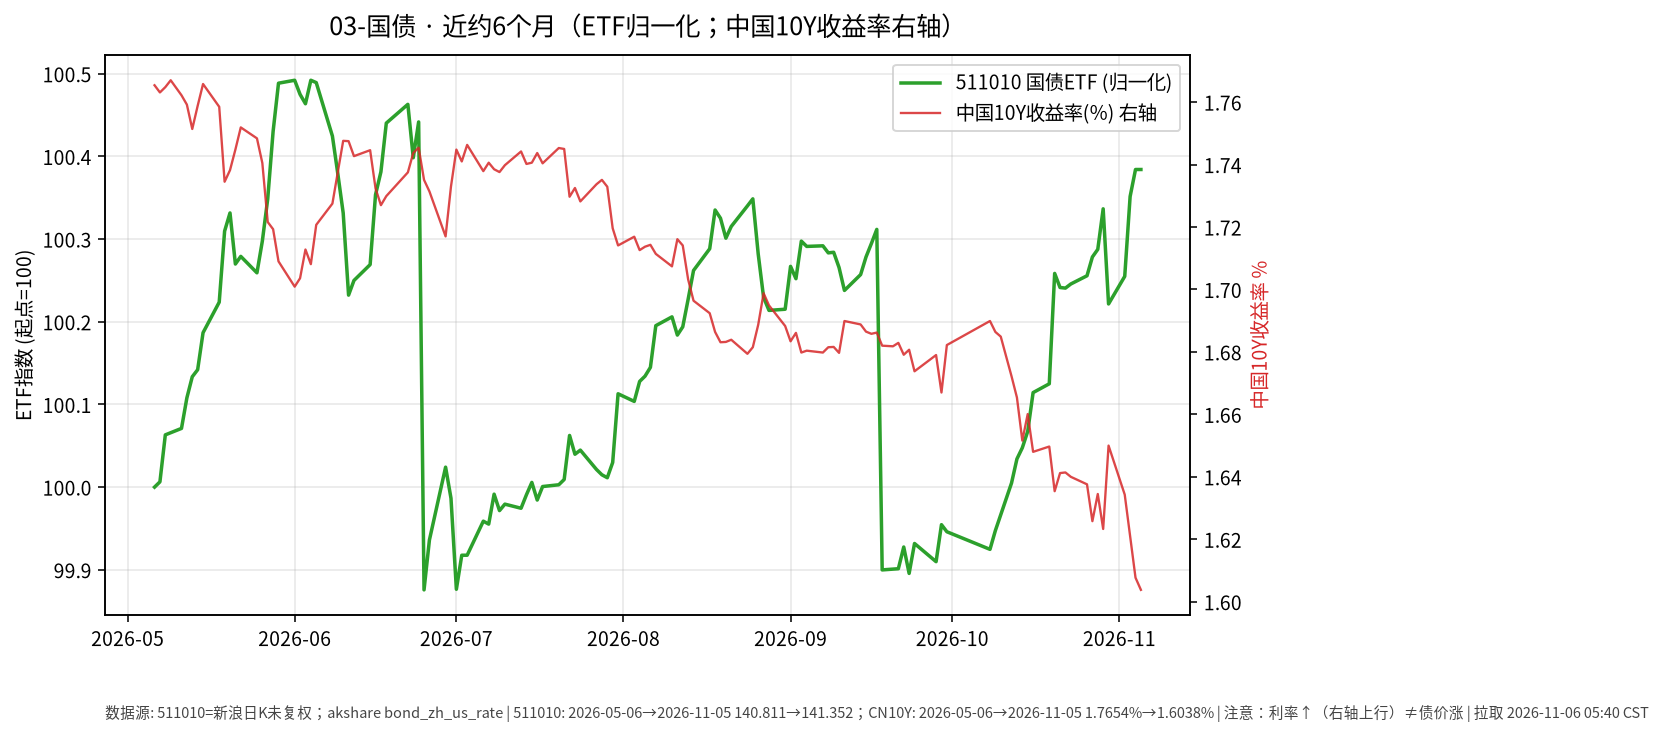
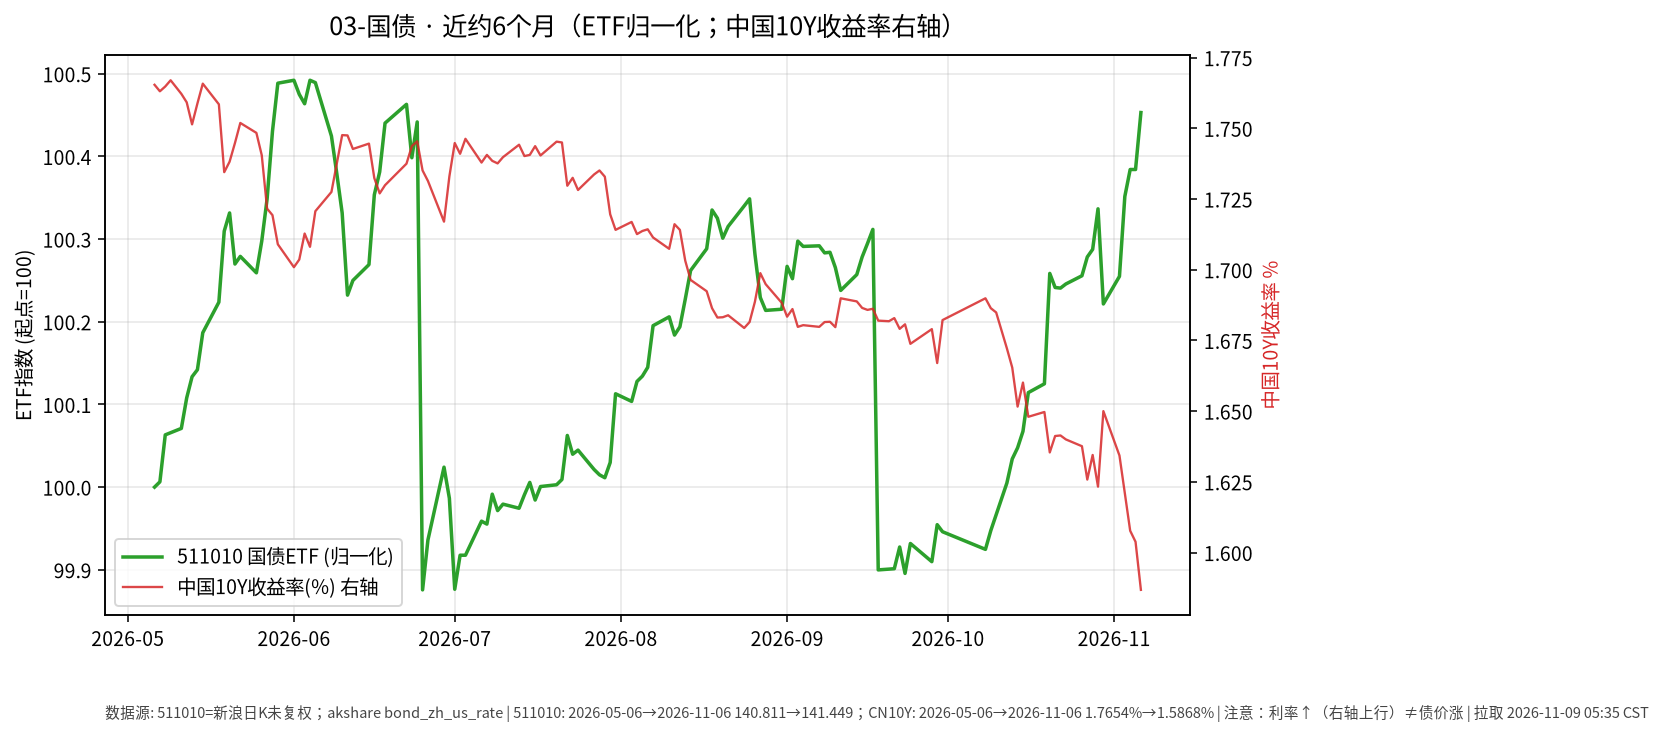
docs: 五门类投资日报 2026-11-09

diff --git a/01-黄金/日报/2026-11-09.md b/01-黄金/日报/2026-11-09.md
@@ -1,0 +1,37 @@
+# 黄金 · 日报 2026-11-09
+
+## 市场状态
+- **报告日**：2026-11-09（周一，Asia/Shanghai 盘前例程）
+- **数据截止交易日**：A 股/沪金均为 **2026-11-06（周五）**；GLD 为美股 **2026-11-06** 收盘（美东上周五，对本报告而言属「隔夜已收」）。周末休市，今日 A 股尚未开盘；本页数字不含周一盘中。
+- GLD 收盘 **372.52**，较前一交易日（2026-11-05 的 375.49）**-0.79%**（akshare 日 K 已含 **2026-11-06**；新浪美股行情 `gb_gld` 同步报 372.52，可交叉核对；yfinance/Yahoo 限流，本次无需补点）。
+- 沪金 AU9999：**2026-11-06** 收盘 **868.57** 元/克（**-1.76%**）；黄金 ETF 518880 收 **8.253**（**-1.98%**）。
+
+## 关键数据
+| 标的 | 最近收盘日 | 收盘 | 日涨跌 | 近约6个月（归一起点日） | 区间涨跌 |
+|------|------------|------|--------|-------------------------|----------|
+| GLD | 2026-11-06 | 372.52 | -0.79% | 2026-05-01→2026-11-06 | -11.97% |
+| 518880 黄金ETF | 2026-11-06 | 8.253 | -1.98% | 2026-05-06→2026-11-06 | -15.71% |
+| AU9999（沪金） | 2026-11-06 | 868.57 | -1.76% | 2026-05-06→2026-11-06 | -15.42% |
+
+![近6个月走势](charts/01-黄金-6m.png)
+
+## 简要解读
+- 美元计价黄金 ETF（GLD）在 **2026-11-06** 较前一交易日约 **-0.79%**；境内 518880 约 **-1.98%**，沪金 AU9999 约 **-1.76%**。近约半年归一后约 **-11.97%～-15.71%**（自 5 月高位回撤后的区间路径）。
+- 价格变动同时受美元、实际利率与风险情绪影响；本页只描述已发生报价，不推断下一步方向。
+
+## 关注点与风险
+- 汇率：境内投资者若以人民币计量，还需叠加美元兑人民币变动，账面涨跌可能与 GLD 美元涨跌不一致。
+- 波动：黄金单日可达数个百分点；ETF 净值/溢价、交易时段与现货不完全同步。
+- 数据完整性：GLD 历史至 11-06 来自 akshare `stock_us_daily`（新浪 `gb_gld` 报 372.52，与收盘一致）；yfinance/Yahoo 限流。518880 新浪日 K；SGE Au99.99 完整。
+
+## 来源与时间
+- GLD：akshare `stock_us_daily`（至 2026-11-06）；新浪 hq `gb_gld` 交叉核对 372.52；yfinance/Yahoo 限流
+- 518880：新浪日 K；AU9999：上海金交所 Dailyhq
+- 图表：Python matplotlib，收盘价归一到起点=100（图窗自 2026-05-01 起）；拉取约 2026-11-09 05:35:44 CST
+
+## 今日一点
+# 今日一点 · Day 11/100 · 《单位净值、估值日、T+N》
+
+**结论：** 看债基或货基，单位净值是「每一份今天值多少」；按哪天成交、钱何时能用，取决于估值日和 T+N，屏幕数字不是落袋现金。
+
+**机制：** 基金公司在每个交易日收盘后算出当天单位净值，这一天就是估值日；你在规定时点前申购或赎回，才锁定哪天净值。货基常见当日或次日可用，债基赎回多为 T+1 或 T+2 到账；ETF 场内买卖即时成交，和场外申赎不是同一条路径。债底仓票息清晰，要先分清净值更新日和资金可用日——应急金不该压在尚未到账的份额上；以后若划拨股票卫星，A 股卖出也有 T+1 交收，节奏要和动用年限对上。今天只讲结算节奏，不定买卖。

diff --git a/03-国债/日报/2026-11-09.md b/03-国债/日报/2026-11-09.md
@@ -1,0 +1,36 @@
+# 国债 · 日报 2026-11-09
+
+## 市场状态
+- **报告日**：2026-11-09（周一盘前）；**数据截止交易日**：**2026-11-06**。周末休市，今日尚未开盘；本页数字不含周一盘中。
+- 国债 ETF 511010 收 **141.449**，日涨跌 **+0.069%**。
+- 中债国债收益率曲线 **10 年期** 2026-11-06 报 **1.5868%**，较上一可得日（2026-11-05 的 1.6038%）约 **-1.70 BP**（akshare `bond_zh_us_rate`）。
+- **提醒**：利率上行（曲线上移）通常对应既有国债价格承压；图中 ETF 净值涨 ≠ 收益率涨。**利率↑线↑≠债价涨**。
+
+## 关键数据
+| 标的 | 收盘日 | 收盘/收益率 | 日变化 | 约6个月 | 区间 |
+|------|--------|-------------|--------|---------|------|
+| 511010 | 2026-11-06 | 141.449 | +0.069% | 2026-05-06→2026-11-06 | +0.45% |
+| 中债10Y国债收益率 | 2026-11-06 | 1.5868% | 约-1.70 BP | 2026-05-06→2026-11-06 | 约 -17.86 BP（akshare 序列） |
+
+![近6个月走势](charts/03-国债-6m.png)
+
+## 简要解读
+- 511010 近半年归一涨跌约 **+0.45%**，路径相对平缓；2026-11-06 日涨跌 +0.069%，同时 10Y 收益率较前一可得日约 -1.70 BP（利率下行通常对存量债价偏友好，单日仍可能受供需/折溢价影响）。
+- 久期越长，对收益率变化越敏感；本页只记录 ETF 收盘与曲线点位。图中右轴叠加中国10Y收益率日序。
+
+## 关注点与风险
+- 利率风险：收益率上行 → 债券市价下行。
+- 通胀预期、货币政策与供需（供给放量等）都会改变曲线形态。
+- 收益率序列来自公开曲线汇总，与 ETF 交易价时间戳不完全同步。
+
+## 来源与时间
+- 511010：新浪日 K；截止 2026-11-06
+- 收益率：akshare `bond_zh_us_rate`（2026-11-06，10Y=1.5868%）
+- 图表：matplotlib，ETF 收盘归一=100，中国10Y 收益率右轴；图注已写「利率↑线↑≠债价涨」；拉取约 2026-11-09 05:35:44 CST
+
+## 今日一点
+# 今日一点 · Day 11/100 · 《单位净值、估值日、T+N》
+
+**结论：** 看债基或货基，单位净值是「每一份今天值多少」；按哪天成交、钱何时能用，取决于估值日和 T+N，屏幕数字不是落袋现金。
+
+**机制：** 基金公司在每个交易日收盘后算出当天单位净值，这一天就是估值日；你在规定时点前申购或赎回，才锁定哪天净值。货基常见当日或次日可用，债基赎回多为 T+1 或 T+2 到账；ETF 场内买卖即时成交，和场外申赎不是同一条路径。债底仓票息清晰，要先分清净值更新日和资金可用日——应急金不该压在尚未到账的份额上；以后若划拨股票卫星，A 股卖出也有 T+1 交收，节奏要和动用年限对上。今天只讲结算节奏，不定买卖。

diff --git a/05-高股息/日报/2026-11-09.md b/05-高股息/日报/2026-11-09.md
@@ -1,0 +1,37 @@
+# 高股息 · 日报 2026-11-09
+
+## 市场状态
+- **报告日**：2026-11-09（周一盘前）；**数据截止交易日**：**2026-11-06**。周末休市，今日尚未开盘；本页数字不含周一盘中。
+- 红利 ETF 510880 收 **3.371**（**+0.69%**）。
+- 招商银行 600036 收 **42.88**（**+0.80%**）；长江电力 600900 收 **29.91**（**+2.15%**）。
+- 510880、招行与长电同日上行；分红与价格涨跌是两回事（股息率随股价变动）。
+- **价格口径**：本页序列为交易所日 K **未复权**收盘（新浪）。
+
+## 关键数据
+| 标的 | 收盘日 | 收盘 | 日涨跌 | 约6个月 | 区间涨跌 |
+|------|--------|------|--------|---------|----------|
+| 510880 红利ETF | 2026-11-06 | 3.371 | +0.69% | 2026-05-06→2026-11-06 | +0.90% |
+| 600036 招商银行 | 2026-11-06 | 42.88 | +0.80% | 2026-05-06→2026-11-06 | +12.84% |
+| 600900 长江电力 | 2026-11-06 | 29.91 | +2.15% | 2026-05-06→2026-11-06 | +9.96% |
+
+![近6个月走势](charts/05-高股息-6m.png)
+
+## 简要解读
+- 近半年归一（未复权）：510880 约 **+0.90%**，招行约 **+12.84%**，长电约 **+9.96%**（个股路径强于宽基红利 ETF，不代表未来）。
+- 2026-11-06：510880 **+0.69%**、招行 **+0.80%**、长电 **+2.15%**，属已发生的价格事实。
+
+## 关注点与风险
+- 银行与公用事业对利率、监管、来水/电价等基本面敏感；高股息不保证本金稳定。
+- 510880 成分与权重定期调整；个股与 ETF 走势可显著偏离。
+- 未复权序列在除权除息日会出现跳空，与前复权路径不一致属正常。
+
+## 来源与时间
+- 510880 / 600036 / 600900：新浪 CN_MarketData K 线（未复权）
+- 截止 2026-11-06；图表 matplotlib，起点=100；图注写明未复权；拉取约 2026-11-09 05:35:44 CST
+
+## 今日一点
+# 今日一点 · Day 11/100 · 《单位净值、估值日、T+N》
+
+**结论：** 看债基或货基，单位净值是「每一份今天值多少」；按哪天成交、钱何时能用，取决于估值日和 T+N，屏幕数字不是落袋现金。
+
+**机制：** 基金公司在每个交易日收盘后算出当天单位净值，这一天就是估值日；你在规定时点前申购或赎回，才锁定哪天净值。货基常见当日或次日可用，债基赎回多为 T+1 或 T+2 到账；ETF 场内买卖即时成交，和场外申赎不是同一条路径。债底仓票息清晰，要先分清净值更新日和资金可用日——应急金不该压在尚未到账的份额上；以后若划拨股票卫星，A 股卖出也有 T+1 交收，节奏要和动用年限对上。今天只讲结算节奏，不定买卖。

diff --git a/02-中短债/日报/2026-11-09.md b/02-中短债/日报/2026-11-09.md
@@ -1,0 +1,35 @@
+# 中短债 · 日报 2026-11-09
+
+## 市场状态
+- **报告日**：2026-11-09（周一盘前）；**A 股数据截止交易日**：**2026-11-06**（周五）。周末休市，今日尚未开盘；本页数字不含周一盘中。
+- 短融 ETF 511360 收 **114.152**（日涨跌 **+0.025%**）。
+- 159649（国开债 ETF 华安）收 **110.923**（日涨跌 **+0.023%**）。
+- 短端品种单日变动极小；仅作路径对照，非交易建议。
+
+## 关键数据
+| 标的 | 收盘日 | 收盘 | 日涨跌 | 约6个月区间 | 区间涨跌 |
+|------|--------|------|--------|-------------|----------|
+| 511360 短融ETF海富通 | 2026-11-06 | 114.152 | +0.025% | 2026-05-06→2026-11-06 | +0.66% |
+| 159649 国开债ETF华安 | 2026-11-06 | 110.923 | +0.023% | 2026-05-06→2026-11-06 | +1.14% |
+
+![近6个月走势](charts/02-中短债-6m.png)
+
+## 简要解读
+- 两条曲线近半年均呈缓慢抬升（归一后约 **+0.66%** / **+1.14%**），单日波动接近于零，符合短久期利率品种特征。
+- 159649 跟踪国开债，久期与信用暴露通常高于纯短融；与 511360 并排只为对照路径，不暗示优劣。
+
+## 关注点与风险
+- 利率上行时净值可能回撤（即使票息仍为正）。
+- ETF 折溢价、流动性与跟踪误差；节假日后跳空可能出现。
+- 杠杆与加久期会放大波动——本报告不讨论、不鼓励此类操作。
+
+## 来源与时间
+- 新浪 CN_MarketData 日 K，截止 2026-11-06
+- 图表：matplotlib，起点归一=100；拉取约 2026-11-09 05:35:44 CST
+
+## 今日一点
+# 今日一点 · Day 11/100 · 《单位净值、估值日、T+N》
+
+**结论：** 看债基或货基，单位净值是「每一份今天值多少」；按哪天成交、钱何时能用，取决于估值日和 T+N，屏幕数字不是落袋现金。
+
+**机制：** 基金公司在每个交易日收盘后算出当天单位净值，这一天就是估值日；你在规定时点前申购或赎回，才锁定哪天净值。货基常见当日或次日可用，债基赎回多为 T+1 或 T+2 到账；ETF 场内买卖即时成交，和场外申赎不是同一条路径。债底仓票息清晰，要先分清净值更新日和资金可用日——应急金不该压在尚未到账的份额上；以后若划拨股票卫星，A 股卖出也有 T+1 交收，节奏要和动用年限对上。今天只讲结算节奏，不定买卖。

diff --git a/04-纯债/日报/2026-11-09.md b/04-纯债/日报/2026-11-09.md
@@ -1,0 +1,35 @@
+# 纯债 · 日报 2026-11-09
+
+## 市场状态
+- **报告日**：2026-11-09（周一盘前）；**数据截止交易日**：**2026-11-06**。周末休市，今日尚未开盘；本页数字不含周一盘中。
+- 城投债 ETF 511220 收 **10.450**（**+0.086%**）。
+- 政金债/债券 ETF 511520 收 **120.230**（**+0.170%**）。
+- 两品种单日变动较小；近半年仍呈缓慢抬升。
+
+## 关键数据
+| 标的 | 收盘日 | 收盘 | 日涨跌 | 约6个月区间 | 区间涨跌 |
+|------|--------|------|--------|-------------|----------|
+| 511220 城投债ETF海富通 | 2026-11-06 | 10.450 | +0.086% | 2026-05-06→2026-11-06 | +1.12% |
+| 511520 政金债ETF富国 | 2026-11-06 | 120.230 | +0.170% | 2026-05-06→2026-11-06 | +2.93% |
+
+![近6个月走势](charts/04-纯债-6m.png)
+
+## 简要解读
+- 近半年归一：511220 约 **+1.12%**，511520 约 **+2.93%**；2026-11-06 两品种分别约 +0.086% / +0.170%，属已发生价格事实。
+- 城投债含信用利差暴露，政金债更偏利率；并排对照路径，不评价孰优。
+
+## 关注点与风险
+- 信用利差扩张时，城投/信用类净值回撤可能大于利率债。
+- 利率上行同样压制久期更长的品种。
+- ETF 折溢价与跟踪误差；本报告不讨论杠杆与下沉信用。
+
+## 来源与时间
+- 新浪 CN_MarketData 日 K，截止 2026-11-06
+- 图表：matplotlib，起点归一=100；拉取约 2026-11-09 05:35:44 CST
+
+## 今日一点
+# 今日一点 · Day 11/100 · 《单位净值、估值日、T+N》
+
+**结论：** 看债基或货基，单位净值是「每一份今天值多少」；按哪天成交、钱何时能用，取决于估值日和 T+N，屏幕数字不是落袋现金。
+
+**机制：** 基金公司在每个交易日收盘后算出当天单位净值，这一天就是估值日；你在规定时点前申购或赎回，才锁定哪天净值。货基常见当日或次日可用，债基赎回多为 T+1 或 T+2 到账；ETF 场内买卖即时成交，和场外申赎不是同一条路径。债底仓票息清晰，要先分清净值更新日和资金可用日——应急金不该压在尚未到账的份额上；以后若划拨股票卫星，A 股卖出也有 T+1 交收，节奏要和动用年限对上。今天只讲结算节奏，不定买卖。

diff --git a/notes/invest-knowledge-100/今日一点/2026-11-09-day11.md b/notes/invest-knowledge-100/今日一点/2026-11-09-day11.md
@@ -1,0 +1,5 @@
+# 今日一点 · Day 11/100 · 《单位净值、估值日、T+N》
+
+**结论：** 看债基或货基，单位净值是「每一份今天值多少」；按哪天成交、钱何时能用，取决于估值日和 T+N，屏幕数字不是落袋现金。
+
+**机制：** 基金公司在每个交易日收盘后算出当天单位净值，这一天就是估值日；你在规定时点前申购或赎回，才锁定哪天净值。货基常见当日或次日可用，债基赎回多为 T+1 或 T+2 到账；ETF 场内买卖即时成交，和场外申赎不是同一条路径。债底仓票息清晰，要先分清净值更新日和资金可用日——应急金不该压在尚未到账的份额上；以后若划拨股票卫星，A 股卖出也有 T+1 交收，节奏要和动用年限对上。今天只讲结算节奏，不定买卖。

diff --git a/notes/invest-knowledge-100/progress.md b/notes/invest-knowledge-100/progress.md
@@ -1,4 +1,4 @@
-next_day: 11
+next_day: 12
 started: 2026-10-26
-last_completed_day: 10
-last_date: 2026-11-06
+last_completed_day: 11
+last_date: 2026-11-09
